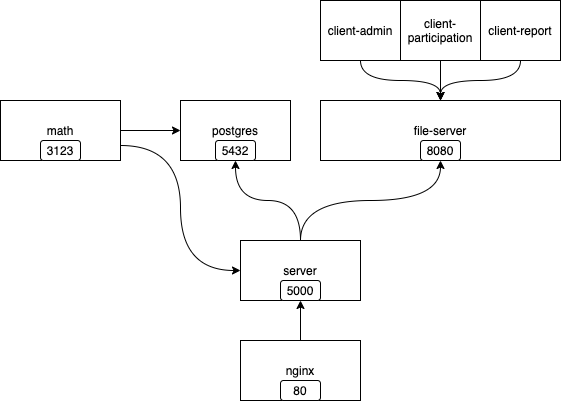
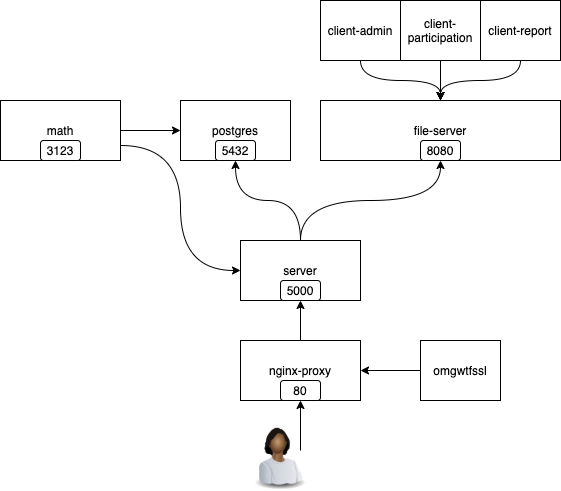
Updated docker arch diagram.

diff --git a/docs/deployment.md b/docs/deployment.md
@@ -77,7 +77,7 @@ It is NOT suited for production, but it may be in the future.
 [![architecture diagram of docker setup][arch-image]][arch-edit]
 
    [arch-image]: docker-architecture.png
-   [arch-edit]: https://www.draw.io/#R7Vpdb5swFP01ecyEDQTy2rRrHjapUzqt3ZsHLngjGDkmkP36mWBCwCRjKHxUWh8qfP19ju%2Fx9W1n%2BmqbPjIU%2BZ%2Bpi4MZ1Nx0pt%2FPIFzqlvidGQ65wVhoucFjxM1NoDRsyG8sjUWzmLh4V2nIKQ04iapGh4YhdnjFhhijSbXZGw2qs0bIw4ph46BAtX4jLvdzq21qpX2NiecXMwNN1vxAzi%2BP0TiU882g%2Fnb8yau3qBhLtt%2F5yKXJmUl%2FmOkrRinPv7bpCgcZtAVseb%2BPF2pP62Y45G06zJcbO%2FkSWwisdTd1Vsnz5nl%2BWhw%2FFIBgV%2BAji5Rxn3o0RMFDab07bhpnw2qiVLb5RGkkjEAYf2LOD5JsFHMqTD7fBrIWp4S%2FZN0%2FmLL0KgfLvu%2FT88KhKIScHc46ZcXXYrysUHY7lop%2BKkwSuR2NmYOvYFOcRsQ8zK%2B0M%2FN2GW5nE0gSHjHdYrEe0YDhAHGyr547JI%2Bvd2pXUig%2BJIv%2FwKgcd4%2BCWM4UeiRMFZqrJCY%2B4XgToSMgiXD0KmEXQdxjxnF6dduydmHIoyZ1AkBbGpLS7UBxHv0zlysE5eZQQQWqNxLg%2BQ4zsa3RAbNgDTDNUAGDxpCAgUUHtXBiAacrcelJOkAn6dB6kw69pXTASUmHrviDExCx9zlytyScnEMsG%2FzBHtQdrP%2Fu0ModjHfpDsYldxAQcOKQSKyBju8WtjY1t7An6hZTCzDNd%2BkWOhyf3o5UdTkWA9Br3Jpf2fWJErHmMgLXzWpACeyaBORbkt1qx%2BS0ju4nx1QEdSKhtvI2AaO%2FTRYKVhHdcY%2Fh3ehomXaLhwkAg1455viaJLUFnCvLSWf%2BduVU4rBS1G5%2B5VgtNWkx1pVz97J%2Feln5ceqC72vt6xKtn%2B6Kh8nk2LX6pLeGfb98m2NGFJaidcfk6dg6Z2htdG7YjJWa3bM1W83hllCBYd4gSq6q4QJtSlXB3pBSk3sTwGlRvzp1ODZOatLH1LQJIgVHR0rNB5hGw2NocKRALawf3%2FfUQF8HUL3Eh0bKqIf5QyLVGNhM4CndIYE46xSfNALQz0vXVog2agzmAdEtXrqXt9WUOmQ4EiRd8YTWoY1y7BsIuHxf19S1x5yhKJZ%2F487xLf%2BPQH%2F4Aw%3D%3D
+   [arch-edit]: https://www.draw.io/?title=docker-architecture#R7Vrfb5swEP5r8pgJY37lNWm7PKxSp3Rrt5fKBRe8AkaO05D99TPBBIhpSlkGVFqlRviwjf3d3ee7kydwEaWfGUqCa%2BrhcKJrXjqBFxNdnxmW%2BM0Eu1xgWFou8BnxchEoBSvyG0th0W1DPLyudeSUhpwkdaFL4xi7vCZDjNFtvdsTDetfTZCPFcHKRaEqvSMeD3KpY2qlfImJHxRfBpp884jcZ5%2FRTSy%2FN9Hh0%2F4vfx2hYi7Zfx0gj24rIng5gQtGKc%2BfonSBwwzaArZ83NUrbw%2FrZjjmbQZMZytn%2B3VjI7CEXuoutrer2%2BlhcXxXAII9gY9sUsYD6tMYhZeldL7fNM6m1USr7POF0kQIgRD%2BwpzvpLLRhlMhCngUyrc4Jfw%2BG%2F7JlK0fcrLs%2BSKtNnZFI%2BZsVxmUNX8U82WNcti%2BVYxTYZLIremGufgENoU1IuZjfqKfmffLcKt8QCrhM6YRFusRHRgOEScvdbtD0nz9Q79SheJBavEdGpXzvqBwI78U%2ByROpwmj6U5Rdl2V24BwvErQHpatcPe62l6F8gUzjtOTm5dvLUManGQLoDtSsC2dDxRWGVQcr6CVswOmK4A9kRBP15iJbQ0OmK0fAaYZKmC60SdgwOrAGe5GwOlJXP4RgYBOBKL9MwKBLQlEHxWBQMUf3JCIvU%2BRF5F4dA4xa%2FAHp1d3sP%2B7Qyt3MD6kOxivuYOAgBOXJGINdHi3cLSxuYUzUrcYW5hpfki3gPrw6u2oqi5m0YN6jXPrVw69oUSsuYzAoVkPKIFzRAH5luSwIzM5rKO75ZgKoY4k1FZyEzB4bmIpWCV0zX2G14OjZTotEhMAej1yzOE5SXILqDLLgWfeOnJqcVhJamc%2FcuyWnGQNdeTM719u7hfBJvXAz6X2bYaWN%2FMiMRmddu2Pqt5xFa5shev2JdShec7Q2vBcvxUrtcbnaI5ayS2hAv3kIEqtquEAbSpV6WdA6vvjhWuli2v3GS5Xic%2FMu8joRBmDxaWN3tiokreDSf0vPbk5drSPfeHgHMUc%2BcqU2PHtmeCs3yhUV8u%2BI%2FAg6ziognp%2FHtSMk1oONDVthEjpgyOlVopMoyFN7h0pcJTw9cnKzUipKSAEusrVfSNlHCeAfSLVGPKOoMjSobT8qiqqkWvjfkHjGXj2c8xRFG20O8c6nD6n9qkWlRlOhJJOeEJP1eQjdu2zmtwYyHVxhPPZfpdk%2FhDtvSfbaxP8VZ2oEau2QWJf2d6pRVY8gEb%2Blj%2Bt1%2BE5rF8x9QYo2%2BcxTZcUejV%2FNbRQQCLR%2FqJTFYoQPeJwfrimtKAhZfvOxUUlOJejLkjki4WF5FH8CipKHlDGQlcJpon4gH51R9kzZg93NELxg5jYfX4QqKTi%2F1MS%2B2fA3DKMOubQUjG3GzC334%2B5aJbXrnJKL6%2B2wcs%2F
 
 :tada: Contributors to Docker support:
 - [@uzzal2k5](https://github.com/uzzal2k5) via [`uzzal2k5/polis_container`](https://github.com/uzzal2k5/polis_container)
